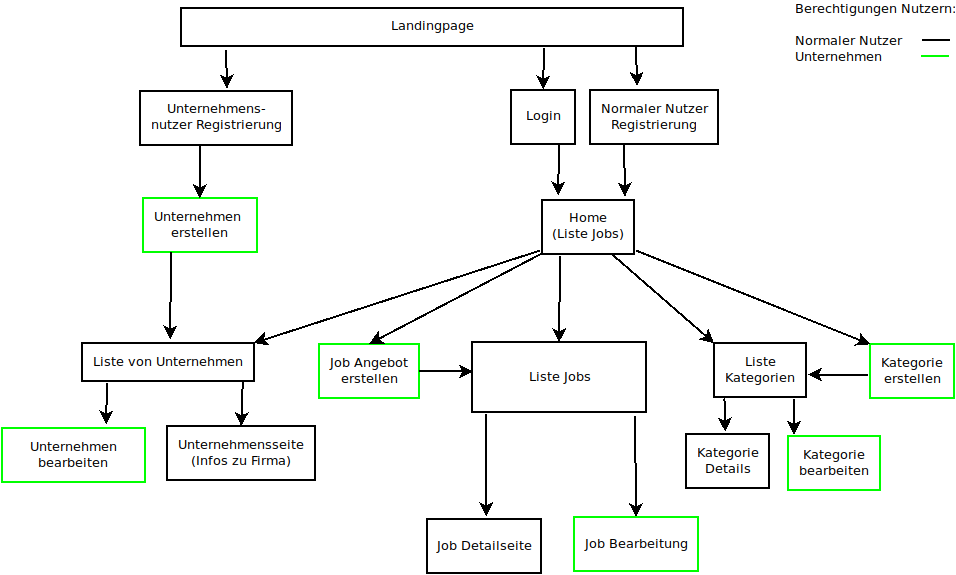
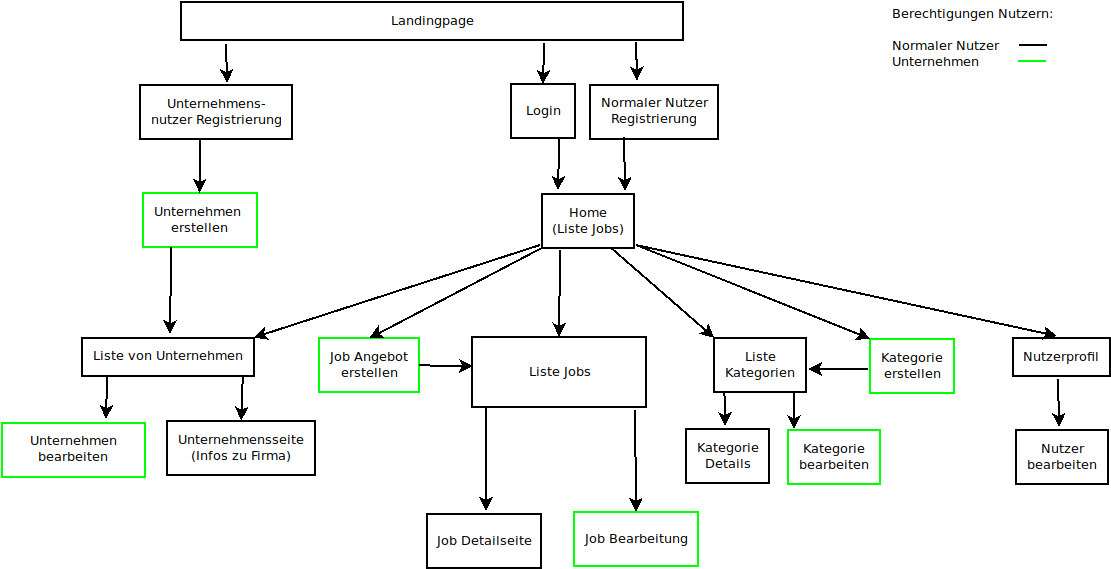
Authentifizierungsmiddleware auf alle Routen angewandt; sitemap aktualisiert

diff --git a/jobportal/routes/web.php b/jobportal/routes/web.php
@@ -11,15 +11,18 @@ Route::get('/dashboard', function () {
     return view('dashboard');
 })->middleware(['auth', 'verified'])->name('dashboard');
 
+// Use of authentification middleware
 Route::middleware('auth')->group(function () {
+    // Auto-generated Profile routes
     Route::get('/profile', [ProfileController::class, 'edit'])->name('profile.edit');
     Route::patch('/profile', [ProfileController::class, 'update'])->name('profile.update');
     Route::delete('/profile', [ProfileController::class, 'destroy'])->name('profile.destroy');
+
+    // CRUD routes
+    Route::resource('positions', App\Http\Controllers\PositionController::class);
+    Route::resource('companys', App\Http\Controllers\CompanyController::class);
+    Route::resource('categorys', App\Http\Controllers\CategoryController::class);
 });
 
-// CRUD routes
-Route::resource('positions', App\Http\Controllers\PositionController::class);
-Route::resource('companys', App\Http\Controllers\CompanyController::class);
-Route::resource('categorys', App\Http\Controllers\CategoryController::class);
 
 require __DIR__.'/auth.php';
